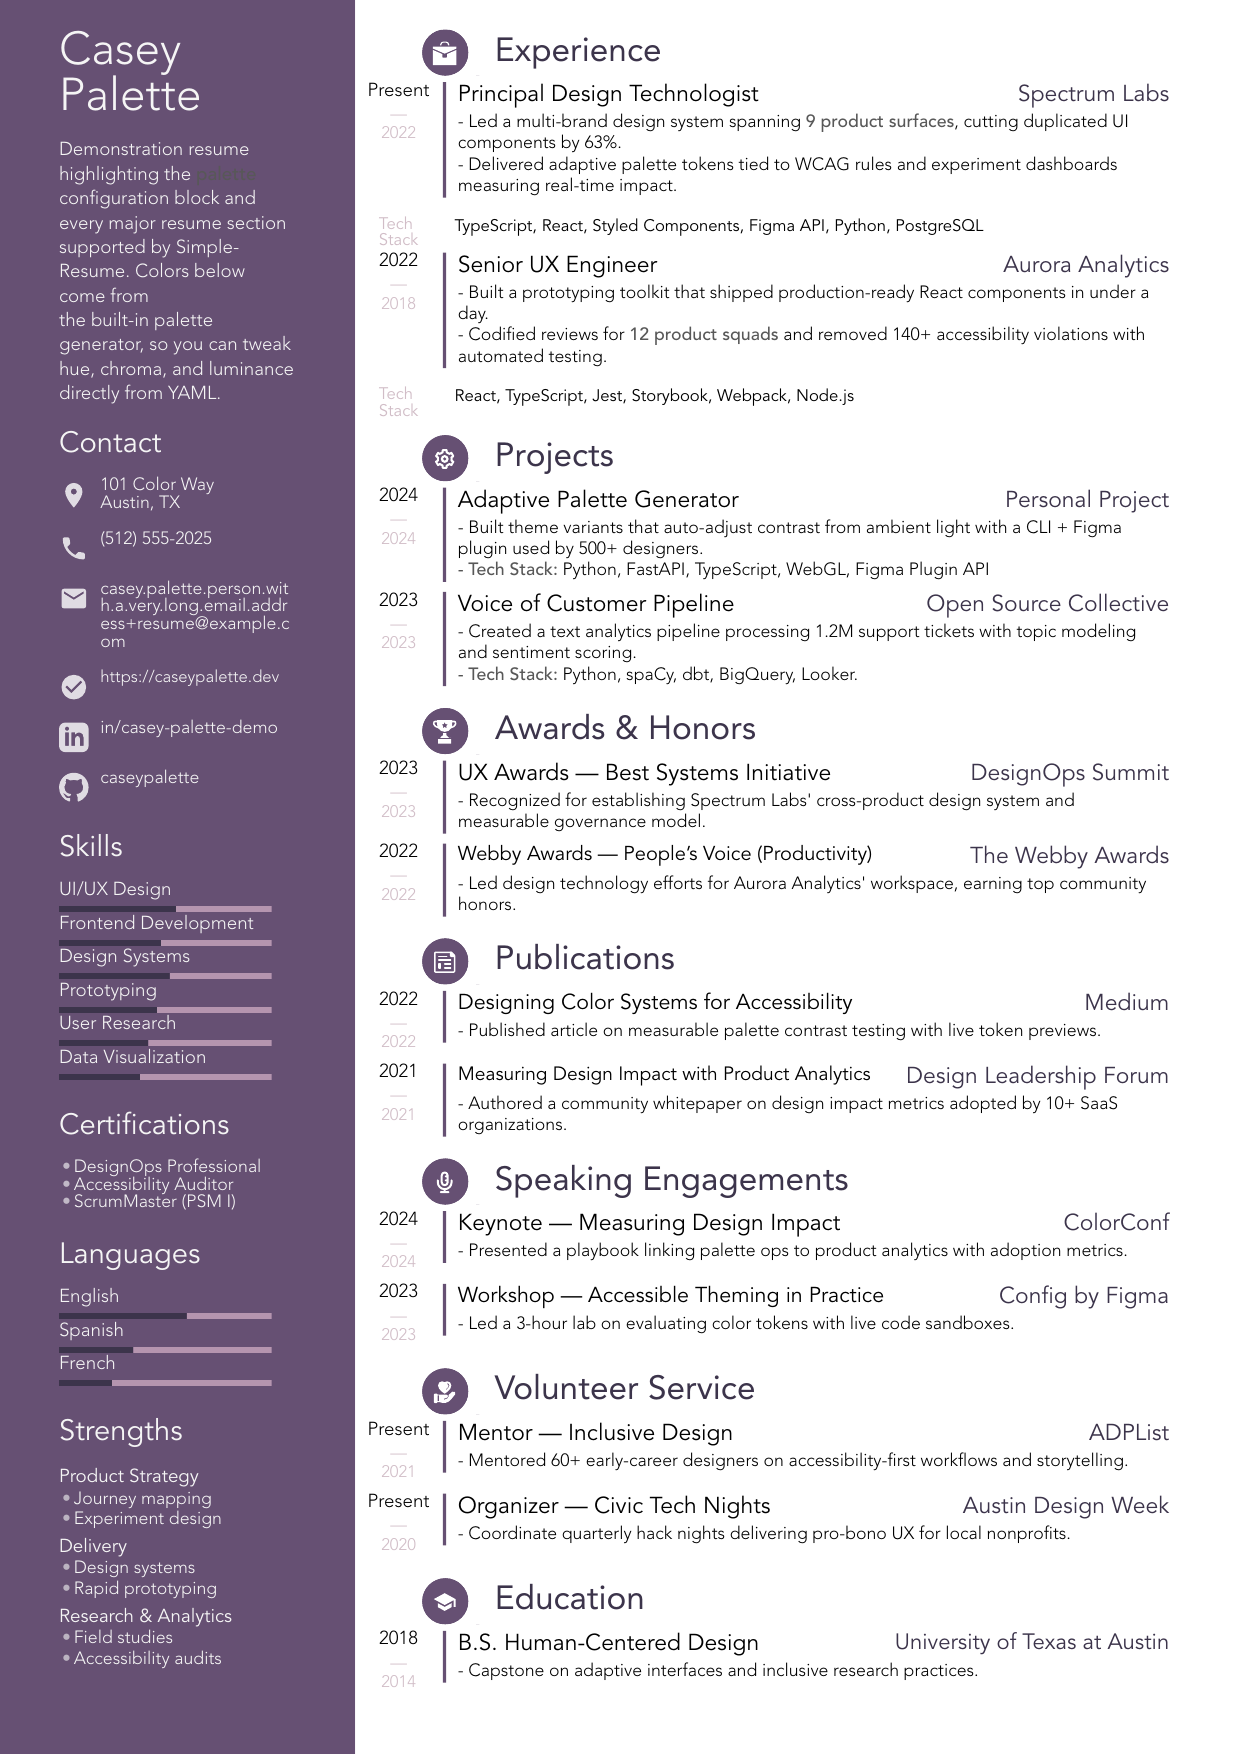
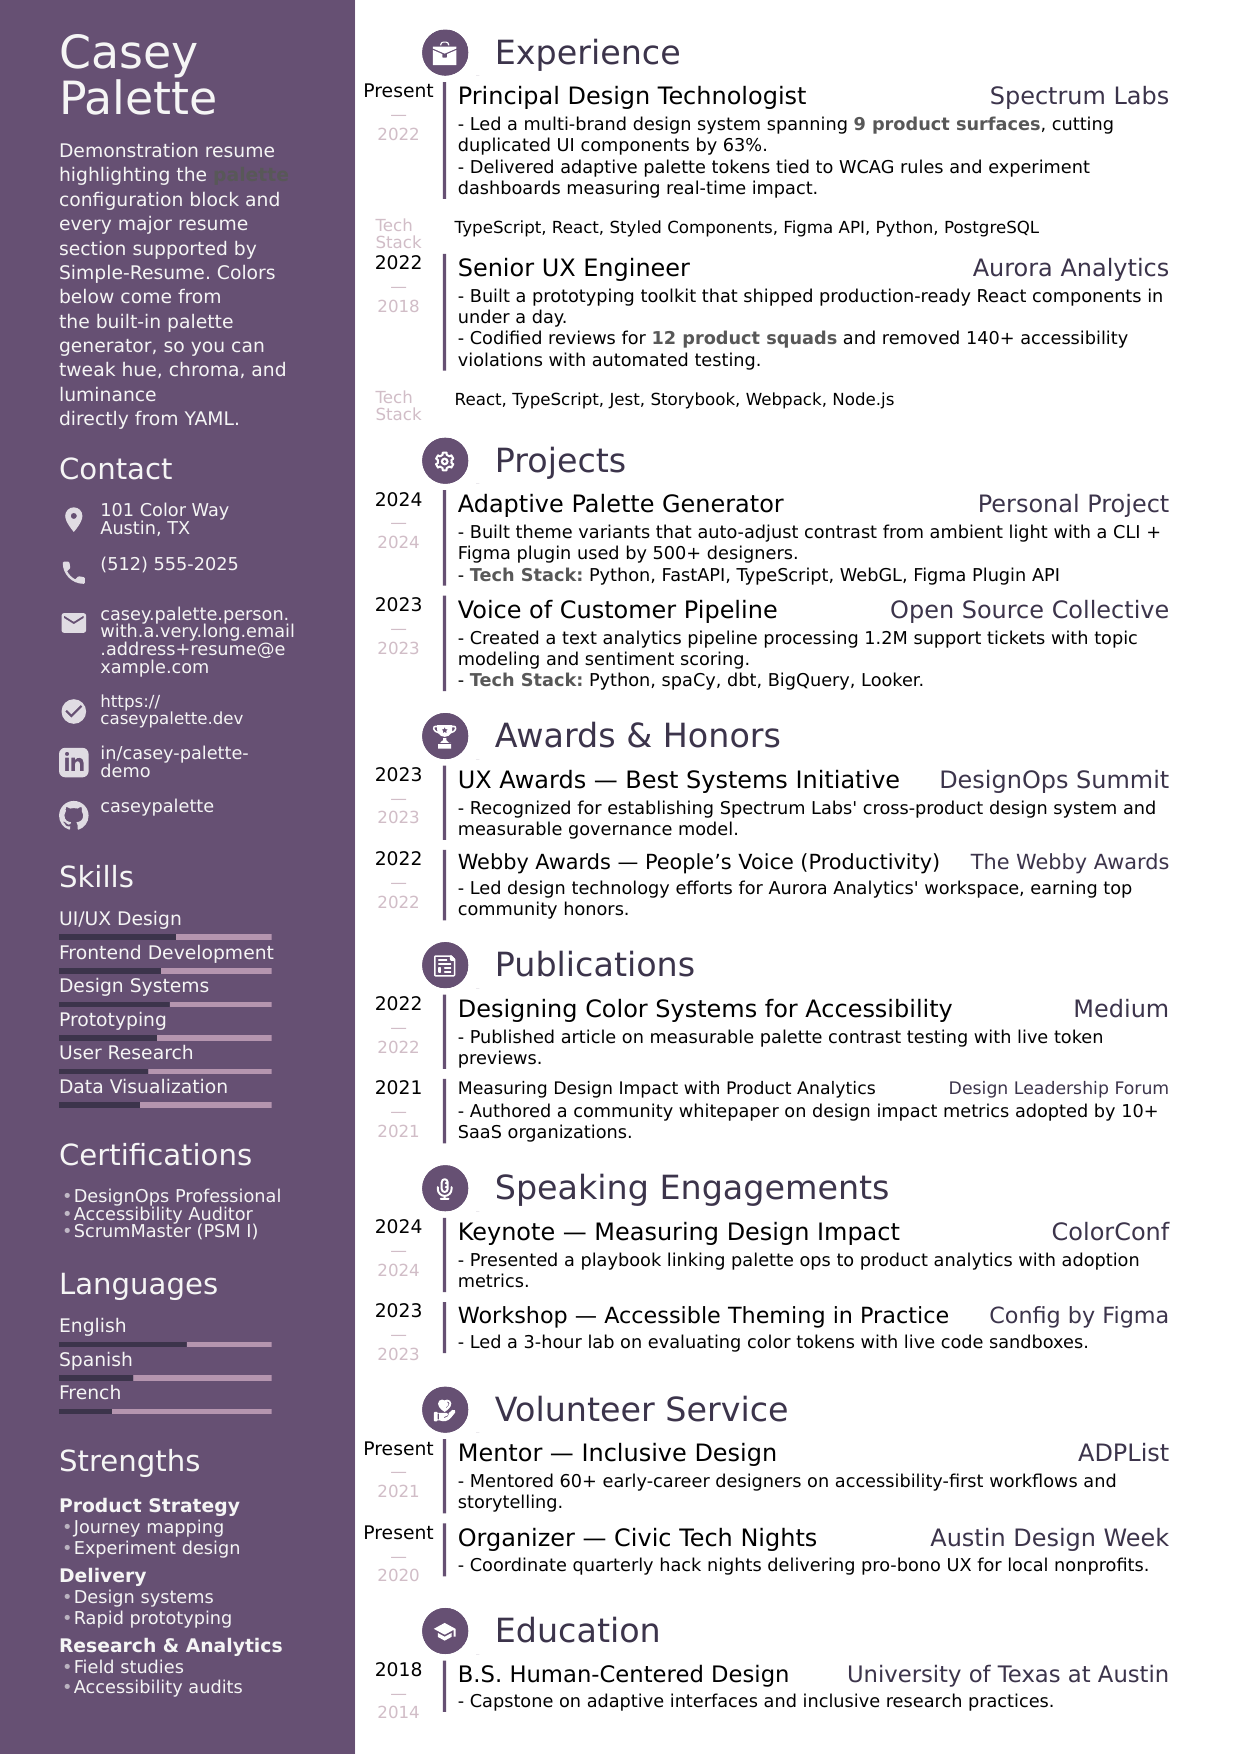
fix(palette): handle YAML files without trailing newlines
Add validation and warning for palette files missing trailing newlines,
which can cause YAML parsing issues. The change maintains backward
compatibility while providing helpful diagnostic logging.

- Add trailing newline detection in load_palette_from_file()
- Log warning when palette files lack proper newline termination
- Add sidebar background color support to HTML template
- Include comprehensive regression tests for edge cases

Fixes issues where malformed YAML files would fail to parse
silently or produce unexpected results.

diff --git a/src/simple_resume/shell/assets/templates/html/resume_base.html b/src/simple_resume/shell/assets/templates/html/resume_base.html
@@ -511,6 +511,7 @@
         padding-left: {{ resume_config["sidebar_padding_left"] }}mm;
         padding-right: {{ resume_config["sidebar_padding_right"] }}mm;
         color: {{ resume_config["sidebar_text_color"] }};
+        background-color: {{ resume_config["sidebar_color"] }};
         overflow: visible;
         position: relative;
         z-index: 10;

diff --git a/tests/unit/test_palette_files.py b/tests/unit/test_palette_files.py
@@ -436,3 +436,75 @@ palette:
         assert config["palette"]["bar_background_color"] == "#CCCCCC"
     finally:
         temp_path.unlink()
+
+
+def test_load_palette_file_without_trailing_newline(story: Scenario, caplog) -> None:
+    """Regression test: palette files parse without trailing newline."""
+    story.given("a palette file with all color definitions but no trailing newline")
+    palette_content = """palette:
+  theme_color: "#2C3E50"
+  sidebar_color: "#F8F9FA"
+  bar_background_color: "#C4916C"
+  date2_color: "#34495E"
+  sidebar_text_color: "#2C3E50"
+  heading_icon_color: "#C4916C"
+  frame_color: "#C4916C"
+  bold_color: "#1A252F\""""
+
+    with tempfile.NamedTemporaryFile(
+        mode="w", suffix=".yaml", delete=False, newline=""
+    ) as f:
+        # Write without automatic newline addition
+        f.write(palette_content.lstrip())
+        temp_path = Path(f.name)
+
+    try:
+        story.when("load_palette_from_file parses the file")
+        result = load_palette_from_file(temp_path)
+
+        story.then("all color properties are loaded correctly despite missing newline")
+        assert result["palette"]["theme_color"] == "#2C3E50"
+        assert result["palette"]["sidebar_color"] == "#F8F9FA"
+        assert result["palette"]["bar_background_color"] == "#C4916C"
+        assert result["palette"]["date2_color"] == "#34495E"
+        assert result["palette"]["sidebar_text_color"] == "#2C3E50"
+        assert result["palette"]["heading_icon_color"] == "#C4916C"
+        assert result["palette"]["frame_color"] == "#C4916C"
+        assert result["palette"]["bold_color"] == "#1A252F"
+
+        story.then("a warning is logged about the missing trailing newline")
+        assert any(
+            "missing a trailing newline" in record.message for record in caplog.records
+        ), "Expected warning about missing trailing newline not found"
+    finally:
+        temp_path.unlink()
+
+
+def test_load_palette_file_with_trailing_newline_no_warning(
+    story: Scenario, caplog
+) -> None:
+    """Palette files with proper trailing newline should not generate warnings."""
+    story.given("a palette file with proper trailing newline")
+    palette_content = """palette:
+  theme_color: "#D04040"
+  sidebar_color: "#E8B8C0"
+"""
+
+    with tempfile.NamedTemporaryFile(mode="w", suffix=".yaml", delete=False) as f:
+        f.write(palette_content)
+        temp_path = Path(f.name)
+
+    try:
+        story.when("load_palette_from_file parses the file")
+        result = load_palette_from_file(temp_path)
+
+        story.then("no warning is logged about trailing newline")
+        assert not any(
+            "missing a trailing newline" in record.message for record in caplog.records
+        ), "Unexpected warning about missing trailing newline"
+
+        story.then("palette loads successfully")
+        assert result["palette"]["theme_color"] == "#D04040"
+        assert result["palette"]["sidebar_color"] == "#E8B8C0"
+    finally:
+        temp_path.unlink()

diff --git a/src/simple_resume/shell/runtime/content.py b/src/simple_resume/shell/runtime/content.py
@@ -3,6 +3,7 @@
 from __future__ import annotations
 
 import copy
+import logging
 from pathlib import Path
 from typing import Any
 
@@ -20,6 +21,8 @@ from simple_resume.shell.io_utils import (
 )
 from simple_resume.shell.palettes.fetch import execute_palette_fetch
 from simple_resume.shell.palettes.loader import get_palette_registry
+
+logger = logging.getLogger(__name__)
 
 
 def _normalize_with_palette(
@@ -109,6 +112,20 @@ def load_palette_from_file(palette_file: str | Path) -> dict[str, Any]:
         raise FileNotFoundError(f"Palette file not found: {path}")
     if path.suffix.lower() not in {".yaml", ".yml"}:
         raise ValueError("Palette file must be a YAML file")
+
+    # Check for missing trailing newline (common YAML parsing issue)
+    with path.open("rb") as f:
+        f.seek(0, 2)  # Seek to end
+        if f.tell() > 0:  # File is not empty
+            f.seek(-1, 2)  # Seek to last byte
+            last_byte = f.read(1)
+            if last_byte != b"\n":
+                logger.warning(
+                    "Palette file '%s' is missing a trailing newline. "
+                    "This may cause YAML parsing issues. "
+                    "Consider adding a newline at the end of the file.",
+                    path.name,
+                )
 
     content = read_yaml_file(path)
     palette_data: Any = content.get("palette", content)
